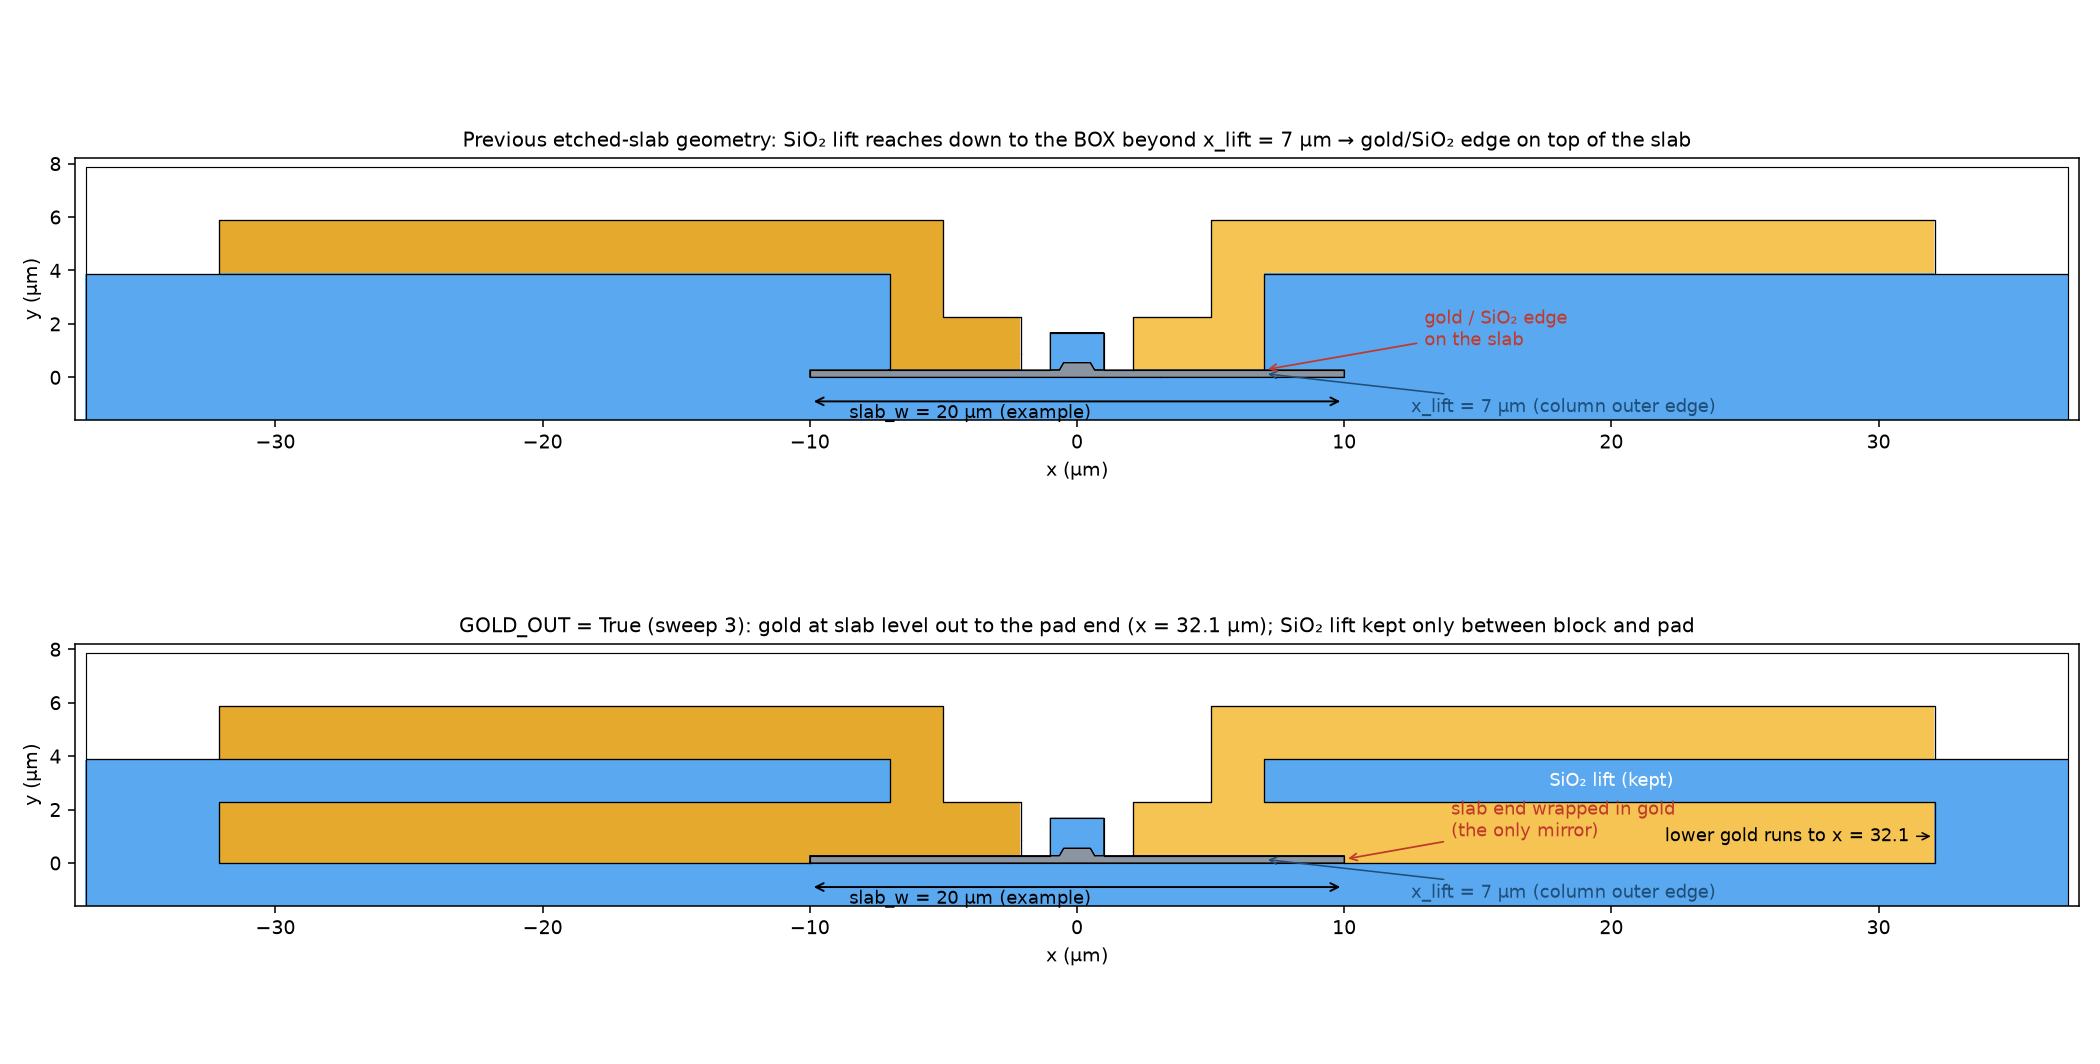
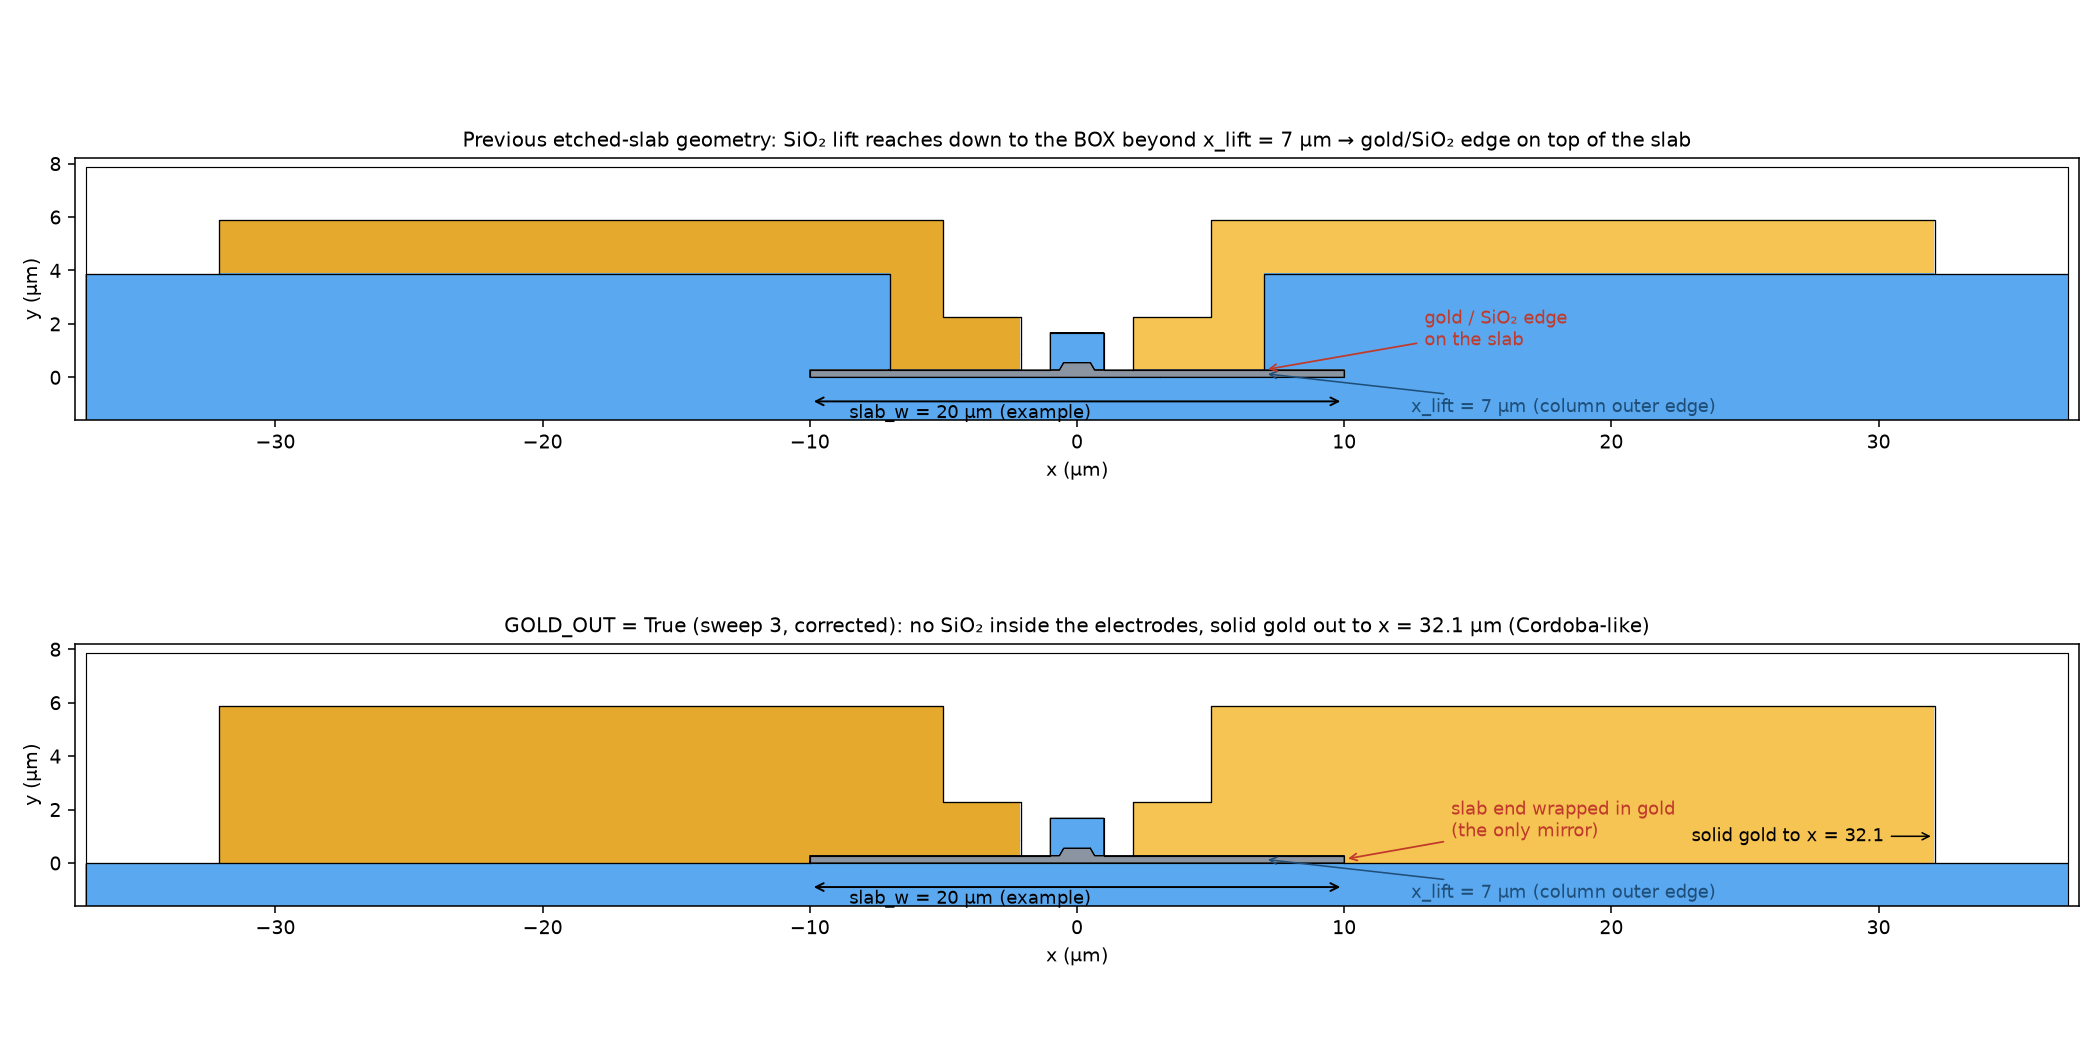
GOLD_OUT corrected: no SiO2 inside the electrodes (solid stepped gold, Cordoba-like), air outside
Claude-Session: https://claude.ai/code/session_01EHQDy7yrZwCZyHELu6KFb3

Changed region(s): [[0.2167, 0.5583, 0.8048, 0.6203], [0.5881, 0.7133, 0.9905, 0.8374], [0.031, 0.7133, 0.4333, 0.8374]]

diff --git a/cells/cell0_etched.py b/cells/cell0_etched.py
@@ -79,8 +79,9 @@ SLAB_W = 3.2                        # total width of the LN slab left after the 
 SLAB_RES = 0.0                      # LN left outside slab_w (partial second etch); 0 = full etch
 SPACER_W = 0.0                      # SiO2 spacer between the slab end and the gold (0 = none);
                                     # only for a slab ending inside the gold, same height as the slab
-GOLD_OUT = False                    # True: gold instead of the SiO2 lift at slab level, out to the
-                                    # pad end (no gold/SiO2 edge on the slab; lift kept above the block)
+GOLD_OUT = False                    # True: no SiO2 inside the electrodes: lower block, column and pad
+                                    # fuse into one solid gold body out to the pad end (Cordoba-like
+                                    # stepped electrode, no gold/SiO2 edge on the slab); air outside
 
 basetta = WG_H / np.tan(np.deg2rad(ALPHA))
 WG_BOTTOM = WG_TOP + 2.0 * basetta
@@ -245,11 +246,14 @@ def build_polygons():
     low_r = box(xg, 0.0, x_low_out, y_low_top).difference(slab).difference(spacer_r)
     col_r = box(x_col_in, y_low_top, x_col_out, y_el_top)
     pad_r = box(x_col_out, y_buf_top, x_el_outer, y_el_top)
+    if GOLD_OUT:                                    # former lift filled with gold
+        pad_r = box(x_col_in, y_low_top, x_el_outer, y_el_top)
     el_r = unary_union([low_r, col_r, pad_r])
     assert el_r.geom_type == "Polygon", "electrode blocks do not fuse into one body"
 
     # ---- 4. SiO2 under the lifted pad, down to the BOX where the slab is gone
-    buf_r = box(x_col_out, 0.0, x_dev_max, y_buf_top).difference(slab).difference(low_r)
+    buf_r = (Polygon() if GOLD_OUT else
+             box(x_col_out, 0.0, x_dev_max, y_buf_top).difference(slab).difference(low_r))
     buf_near_r = _areal(buf_r.intersection(box(x_col_out, 0.0, x_near, y_slab_top + 1.0)))
     buf_far_r = _areal(buf_r.difference(box(x_col_out, 0.0, x_near, y_slab_top + 1.0)))
 
@@ -410,8 +414,8 @@ print(f"              SLAB_W {SLAB_W:.2f} um (edge {SLAB_EXT:+.2f} um from the g
       + (f" | SiO2 spacer {SPACER_W*1e3:.0f} nm before the gold" if SPACER_W > 0 else "")
       + (f" | {SLAB_RES*1e3:.0f} nm LN left outside slab_w" if SLAB_RES > 0 else ""))
 print(f"              gaps: bottom {GAP_BOT:.2f} um / top {GAP_TOP:.2f} um | "
-      f"lower block {LOW_W:.2f} um | " + (f"gold at slab level out to x = {X_LOW_OUT:.2f} um "
-      f"(no gold/SiO2 edge on the slab), lift from x = {X_LIFT:.2f} um" if GOLD_OUT else
+      f"lower block {LOW_W:.2f} um | " + (f"solid gold electrode out to x = {X_LOW_OUT:.2f} um, "
+      f"no SiO2 inside the electrode (no gold/SiO2 edge on the slab)" if GOLD_OUT else
       f"gold/SiO2 interface at x = {X_LIFT:.2f} um"))
 
 raw_mesh = mesh_from_OrderedDict(
@@ -479,7 +483,7 @@ _dim(ax_a, -_xg, _xg, _yst + EL_H - 0.35, rf"gap = {GAP_BOT:.2f} $\mu$m")
 _dim(ax_a, -GAP_TOP / 2.0, GAP_TOP / 2.0, _yst + BUFFER_H + 0.6, rf"top gap = {GAP_TOP:.1f} $\mu$m")
 if not GOLD_OUT:
     _dim(ax_a, _xg, X_LIFT, _yst + EL_H + 0.35, rf"lower block {LOW_W:.1f} $\mu$m")
-ax_a.annotate(rf"lift starts above the block, x_lift = {X_LIFT:.1f} $\mu$m (gold at slab level)" if GOLD_OUT else
+ax_a.annotate(rf"no SiO$_2$ in the electrode: solid gold out to x = {X_LOW_OUT:.1f} $\mu$m" if GOLD_OUT else
               rf"gold / SiO$_2$ interface, x_lift = {X_LIFT:.1f} $\mu$m", (X_LIFT, _yst / 2 if not GOLD_OUT else _yst + EL_H),
               (X_LIFT + 0.6, -0.85), fontsize=8.5, arrowprops=dict(arrowstyle="->", lw=0.8))
 ax_a.legend(handles=[mpatches.Patch(color=MATERIALS[m]["color"], label=f"{m}: {MATERIALS[m]['desc']}")

diff --git a/results/three_sweeps/xsec_go.py b/results/three_sweeps/xsec_go.py
@@ -16,14 +16,13 @@ for ax, flag in zip(axs, (False, True)):
     ax.annotate("", (-10, -0.9), (10, -0.9), arrowprops=dict(arrowstyle="<->", lw=1))
     ax.text(-4, -1.0, "slab_w = 20 µm (example)", ha="center", va="top", fontsize=9)
 axs[0].set_title("Previous etched-slab geometry: SiO₂ lift reaches down to the BOX beyond x_lift = 7 µm → gold/SiO₂ edge on top of the slab", fontsize=10.5)
-axs[1].set_title("GOLD_OUT = True (sweep 3): gold at slab level out to the pad end (x = 32.1 µm); SiO₂ lift kept only between block and pad", fontsize=10.5)
+axs[1].set_title("GOLD_OUT = True (sweep 3, corrected): no SiO₂ inside the electrodes, solid gold out to x = 32.1 µm (Cordoba-like)", fontsize=10.5)
 for ax in axs:
     ax.annotate("x_lift = 7 µm (column outer edge)", (7, 0.14), (12.5, -1.3), fontsize=9, color="#1f4e79", arrowprops=dict(arrowstyle="->", color="#1f4e79", lw=0.8))
 axs[0].annotate("gold / SiO₂ edge\non the slab", (7, 0.28), (13, 1.2), fontsize=9, color="#c0392b",
                 arrowprops=dict(arrowstyle="->", color="#c0392b", lw=0.9))
 axs[1].annotate("slab end wrapped in gold\n(the only mirror)", (10, 0.14), (14, 1.0), fontsize=9, color="#c0392b",
                 arrowprops=dict(arrowstyle="->", color="#c0392b", lw=0.9))
-axs[1].annotate("lower gold runs to x = 32.1", (32.1, 1.0), (22, 1.0), fontsize=9, va="center",
+axs[1].annotate("solid gold to x = 32.1", (32.1, 1.0), (23, 1.0), fontsize=9, va="center",
                 arrowprops=dict(arrowstyle="->", lw=0.8))
-axs[1].text(20, 3.07, "SiO₂ lift (kept)", ha="center", va="center", fontsize=9, color="white")
 plt.tight_layout(); fig.savefig("/home/user/claude/results/three_sweeps/sweep3_cross_section_gold_at_slab_level.png", dpi=140)

diff --git a/results/three_sweeps/analysis.py b/results/three_sweeps/analysis.py
@@ -121,7 +121,7 @@ if rows:
     plt.tight_layout(); fig.savefig(OUT + "sweep2_buffered_overetch.png", dpi=150); plt.close(fig)
 
 # ============ Sweep 3: full etch, gold at slab level ===========================
-d3 = runs("s8_out.txt", "s8c_out.txt")
+d3 = runs("s8_out.txt", "s9_out.txt")
 new = sorted((float(k[3:]), v["IL"], v["VpiL"]) for k, v in d3.items() if k.startswith("GO_"))
 if new:
     new = np.array(new)
